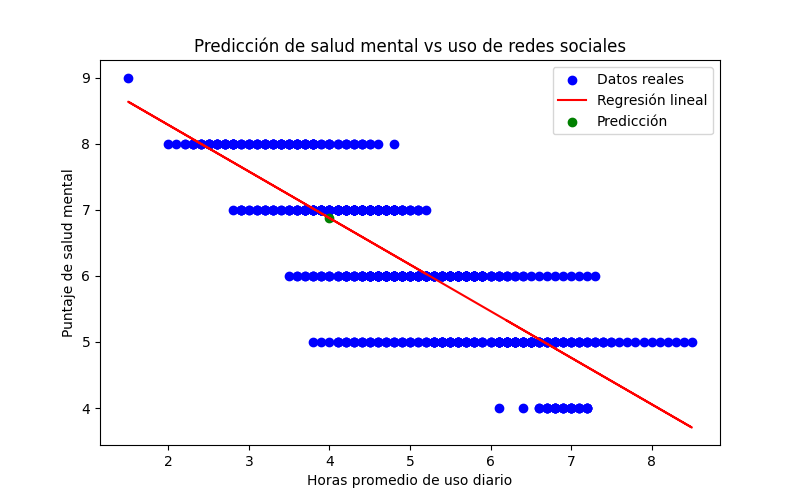
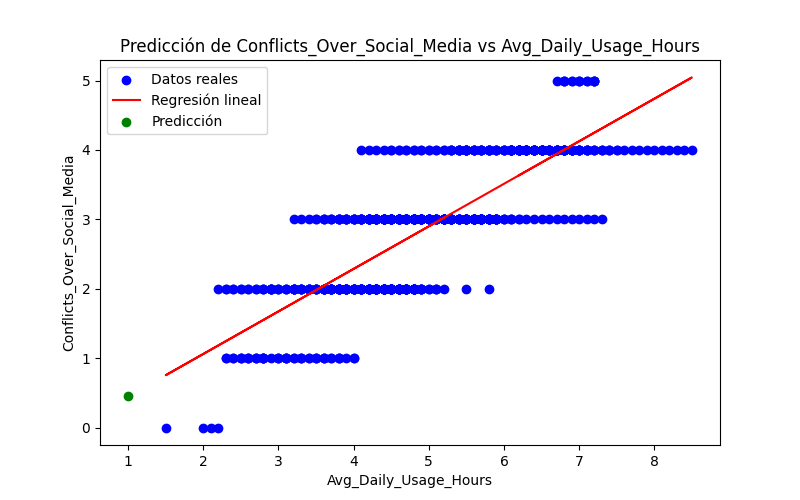
Add error handling and modular prediction endpoint to mental health prediction API
- Implemented error handling for CSV file reading and prediction processes using HTTPException.
- Added a new endpoint '/predict/csv-heads' to retrieve column names and data types from the CSV file.
- Introduced a modular prediction endpoint '/predict/modular-prediction' allowing users to specify column names for predictions.
- Updated the prediction logic to handle dynamic column names and improved response structure.
- Enhanced plotting functionality with dynamic labels based on user input.

diff --git a/app/api/v1/routers/predict.py b/app/api/v1/routers/predict.py
@@ -1,4 +1,4 @@
-from fastapi import APIRouter, Query
+from fastapi import APIRouter, Query, HTTPException
 from fastapi.responses import FileResponse, JSONResponse
 import pandas as pd
 import matplotlib.pyplot as plt
@@ -13,32 +13,31 @@ CSV_PATH = os.path.abspath(os.path.join(os.path.dirname(__file__), '../../../../
 
 @router.get('/predict/mental_health')
 def predict_mental_health(avg_daily_usage: float = Query(..., description="Horas promedio de uso diario de redes sociales")):
-    # Leer el CSV
-    df = pd.read_csv(CSV_PATH)
-    X = df[["Avg_Daily_Usage_Hours"]].values
-    y = df["Mental_Health_Score"].values
-
-    # Entrenar modelo de regresión lineal
-    model = LinearRegression()
-    model.fit(X, y)
-
-    # Realizar predicción
-    pred = model.predict(np.array([[avg_daily_usage]]))[0]
-
-    # Graficar
-    plt.figure(figsize=(8,5))
-    plt.scatter(X, y, color='blue', label='Datos reales')
-    plt.plot(X, model.predict(X), color='red', label='Regresión lineal')
-    plt.scatter([avg_daily_usage], [pred], color='green', label='Predicción')
-    plt.xlabel('Horas promedio de uso diario')
-    plt.ylabel('Puntaje de salud mental')
-    plt.title('Predicción de salud mental vs uso de redes sociales')
-    plt.legend()
-    img_path = 'prediction.png'
-    plt.savefig(img_path)
-    plt.close()
-
-    # Responder con la predicción y la imagen
+    try:
+        df = pd.read_csv(CSV_PATH)
+    except FileNotFoundError:
+        raise HTTPException(status_code=404, detail="Archivo CSV no encontrado")
+    except Exception as e:
+        raise HTTPException(status_code=500, detail=f"Error al leer el archivo CSV: {str(e)}")
+    try:
+        X = df[["Avg_Daily_Usage_Hours"]].values
+        y = df["Mental_Health_Score"].values
+        model = LinearRegression()
+        model.fit(X, y)
+        pred = model.predict(np.array([[avg_daily_usage]]))[0]
+        plt.figure(figsize=(8,5))
+        plt.scatter(X, y, color='blue', label='Datos reales')
+        plt.plot(X, model.predict(X), color='red', label='Regresión lineal')
+        plt.scatter([avg_daily_usage], [pred], color='green', label='Predicción')
+        plt.xlabel('Horas promedio de uso diario')
+        plt.ylabel('Puntaje de salud mental')
+        plt.title('Predicción de salud mental vs uso de redes sociales')
+        plt.legend()
+        img_path = 'prediction.png'
+        plt.savefig(img_path)
+        plt.close()
+    except Exception as e:
+        raise HTTPException(status_code=500, detail=f"Error durante la predicción o graficación: {str(e)}")
     return JSONResponse({
         "prediccion": pred,
         "grafica_url": "/predict/mental_health/plot"
@@ -49,4 +48,58 @@ def get_plot():
     img_path = 'prediction.png'
     if os.path.exists(img_path):
         return FileResponse(img_path, media_type='image/png')
-    return JSONResponse({"error": "No hay gráfica generada"}, status_code=404)
+    raise HTTPException(status_code=404, detail="No hay gráfica generada")
+
+@router.get('/predict/csv-heads' )
+def get_csv_heads():
+    try:
+        df = pd.read_csv(CSV_PATH)
+        df = df.convert_dtypes()
+        cols = df.columns.tolist()
+        data_types = df.dtypes.astype(str).tolist()
+        column_info = [{"columna": c, "tipo": t} for c, t in zip(cols, data_types)]
+        return JSONResponse({"columnas": column_info})
+    except FileNotFoundError:
+        raise HTTPException(status_code=404, detail="Archivo CSV no encontrado")
+    except Exception as e:
+        raise HTTPException(status_code=500, detail=f"Error al leer el archivo CSV: {str(e)}")
+
+
+
+@router.get('/predict/modular-prediction')
+def predict_modular_prediction(
+    avg_daily_usage: float = Query(..., description="Horas promedio de uso diario de redes sociales"),
+    heads: list[str] = Query(..., description="Lista de dos nombres de columnas del CSV en el orden [X, y]")
+):
+    if len(heads) != 2:
+        raise HTTPException(status_code=400, detail="Debe proporcionar exactamente dos nombres de columnas en el parámetro 'heads'.")
+    head1, head2 = heads
+    try:
+        df = pd.read_csv(CSV_PATH)
+    except FileNotFoundError:
+        raise HTTPException(status_code=404, detail="Archivo CSV no encontrado")
+    except Exception as e:
+        raise HTTPException(status_code=500, detail=f"Error al leer el archivo CSV: {str(e)}")
+    try:
+        X = df[[head1]].values
+        y = df[head2].values
+        model = LinearRegression()
+        model.fit(X, y)
+        pred = model.predict(np.array([[avg_daily_usage]]))[0]
+        plt.figure(figsize=(8,5))
+        plt.scatter(X, y, color='blue', label='Datos reales')
+        plt.plot(X, model.predict(X), color='red', label='Regresión lineal')
+        plt.scatter([avg_daily_usage], [pred], color='green', label='Predicción')
+        plt.xlabel(head1)
+        plt.ylabel(head2)
+        plt.title(f'Predicción de {head2} vs {head1}')
+        plt.legend()
+        img_path = 'prediction.png'
+        plt.savefig(img_path)
+        plt.close()
+    except Exception as e:
+        raise HTTPException(status_code=500, detail=f"Error durante la predicción o graficación: {str(e)}")
+    return JSONResponse({
+        "prediccion": pred,
+        "grafica_url": "/predict/mental_health/plot"
+    })
